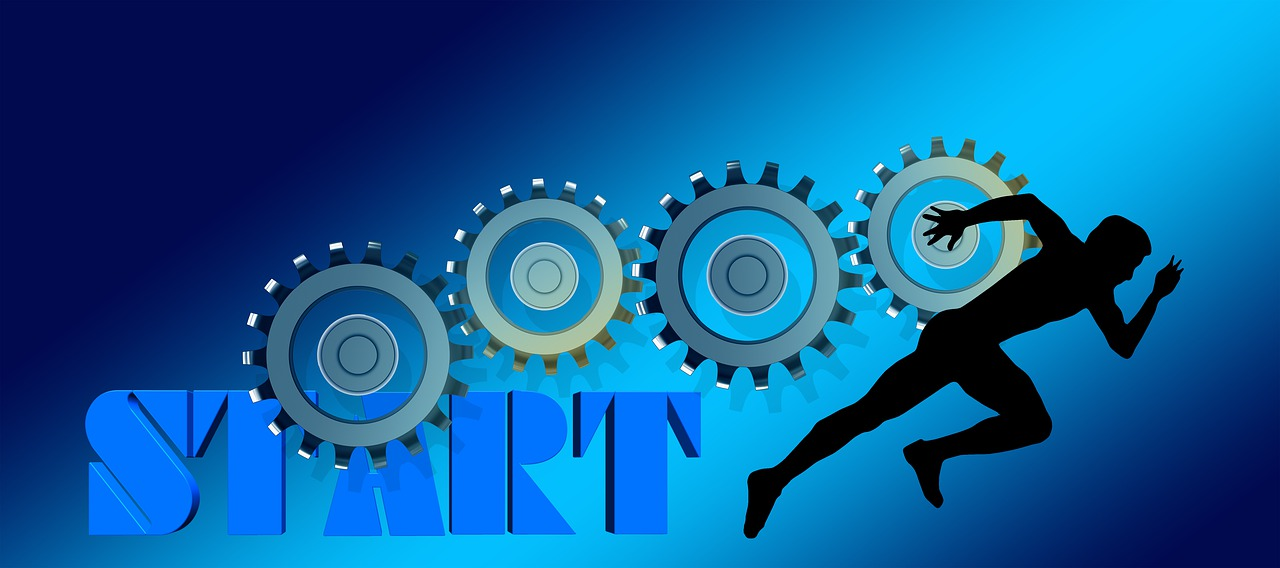
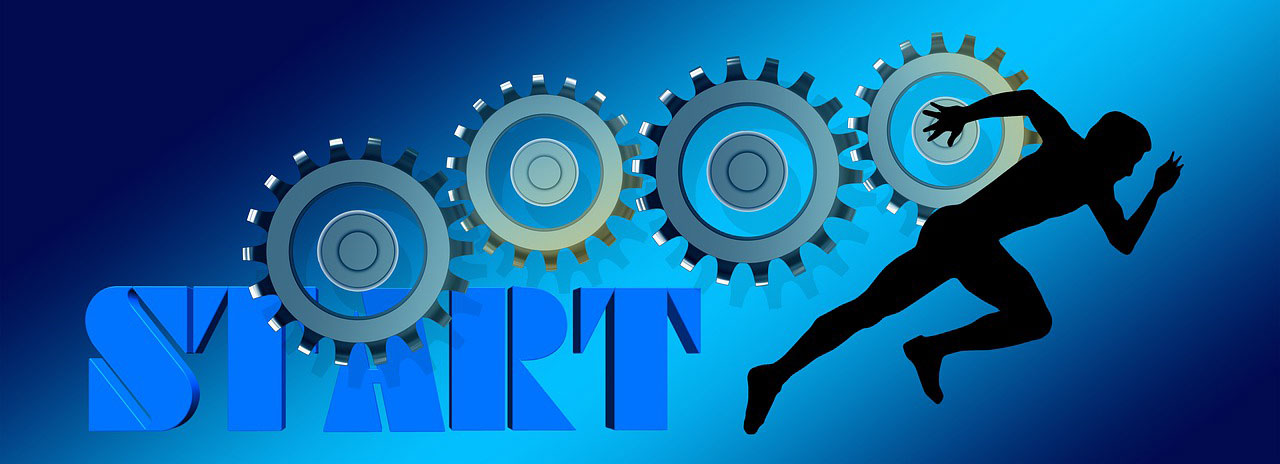
added dynamic data and api

diff --git a/templates/home.html b/templates/home.html
@@ -4,64 +4,42 @@
   <meta charset="UTF-8">
   <meta http-equiv="X-UA-Compatible" content="IE=edge">
   <meta name="viewport" content="width=device-width, initial-scale=1.0">
-  <style>
-    h1{
-      font-size:40px;
-      font-weight: normal;
-      font-family:Roboto;
-      color:rgb(50,50,50);
-      text-align: center;
-    }
-    h2{
-      font-size:32px;
-      font-weight: normal;
-      font-family:Roboto;
-      color:rgb(100,100,100);
-      text-align: center;
-    }
-
-    .bodytext {
-      font-family:Roboto;
-      color:rgb(80,80,80);
-      text-align: center;
-    }
-    #banner{
-      width : 100%;
-      height: 360px;
-      object-fit: cover;
-    }
-
-    #container{
-      max-width: 80%;
-      margin: 0 auto;
-    }
-  </style>
+  <link href="https://cdn.jsdelivr.net/npm/bootstrap@5.2.3/dist/css/bootstrap.min.css" rel="stylesheet" integrity="sha384-rbsA2VBKQhggwzxH7pPCaAqO46MgnOM80zW1RWuH61DGLwZJEdK2Kadq2F9CUG65" crossorigin="anonymous">
+    
   <title>Carrers</title>
 </head>
 <body>
-  <div id ="container">
-  <h1>Geonics Careers</h1>
-  <img id="banner" src="static/banner.jpg">
-  <h2>About Geonics</h2>
-  <p class="bodytext">Welcome to Geonics! We are a team of experienced professionals dedicated to delivering high-quality solutions in the field of technology. Our focus is on Web App development, Data Analysis, Machine Learning, and Mobile App development.</p>
+  <div class="container">
+  <h1 class="text-center mt-4 mb-4">{{ companyname }} Careers</h1>
+  <img class="img-fluid" src="static/banner.jpg">
+  <h2 class="text-center mt-4 mb-4">About Geonics</h2>
+  <p class="lead">Welcome to Geonics! We are a team of experienced professionals dedicated to delivering high-quality solutions in the field of technology. Our focus is on Web App development, Data Analysis, Machine Learning, and Mobile App development.</p>
 
-<p class="bodytext">At Geonics, we believe that technology can make a positive impact on society. That's why we work tirelessly to develop innovative solutions that solve real-world problems. We understand that every project is unique and requires a tailored approach. That's why we work closely with our clients to understand their needs and deliver customized solutions that meet their goals.</p>
+<p >At Geonics, we believe that technology can make a positive impact on society. That's why we work tirelessly to develop innovative solutions that solve real-world problems. We understand that every project is unique and requires a tailored approach. That's why we work closely with our clients to understand their needs and deliver customized solutions that meet their goals.</p>
 
-<p class="bodytext">Our team of experts has years of experience in developing web applications that are efficient, scalable, and user-friendly. We use the latest technologies and best practices to build high-performance web applications that deliver a seamless user experience. Our web development services include front-end development, back-end development, and database design.</p>
+<p >Our team of experts has years of experience in developing web applications that are efficient, scalable, and user-friendly. We use the latest technologies and best practices to build high-performance web applications that deliver a seamless user experience. Our web development services include front-end development, back-end development, and database design.</p>
 
-<p class="bodytext">Data Analysis is another area of expertise for us. We help businesses make informed decisions by analyzing their data and providing insights that can drive growth. Our team of data scientists and analysts have experience in a wide range of industries and can provide custom data analysis solutions that meet your specific needs.</p>
+<p >Data Analysis is another area of expertise for us. We help businesses make informed decisions by analyzing their data and providing insights that can drive growth. Our team of data scientists and analysts have experience in a wide range of industries and can provide custom data analysis solutions that meet your specific needs.</p>
 
-<p class="bodytext">Machine Learning is a rapidly growing field that has the potential to revolutionize the way businesses operate. Our team has expertise in building machine learning models that can provide insights and predictions based on large datasets. We have experience in developing models for various applications, including natural language processing, image recognition, and predictive analytics.</p>
+<p >Machine Learning is a rapidly growing field that has the potential to revolutionize the way businesses operate. Our team has expertise in building machine learning models that can provide insights and predictions based on large datasets. We have experience in developing models for various applications, including natural language processing, image recognition, and predictive analytics.</p>
 
-<p class="bodytext">In the mobile app development space, our team has developed numerous high-quality mobile applications for various platforms, including iOS and Android. We focus on delivering user-friendly and efficient applications that meet the needs of our clients and their customers.</p>
+<p >In the mobile app development space, our team has developed numerous high-quality mobile applications for various platforms, including iOS and Android. We focus on delivering user-friendly and efficient applications that meet the needs of our clients and their customers.</p>
 
-<p class="bodytext">At Geonics, we are committed to delivering exceptional service and solutions to our clients. Contact us to learn more about how we can help you achieve your business goals through innovative technology solutions.</p>
+<p >At Geonics, we are committed to delivering exceptional service and solutions to our clients. Contact us to learn more about how we can help you achieve your business goals through innovative technology solutions.</p>
 
-  <h2>Open Positions</h2>
-  <p class="bodytext">To Do</p>
-    <div style="text-align: center;">
-      <button>Contact Us</button>
+  <h2 class="text-center mt-4 mb-4">Open Positions</h2>
+  <div >
+    {% for job in jobs %}
+      {% include 'jobitem.html' %}
+     {% endfor %}
+      
+  </div>
+    <div class="text-center" >
+      <button class= "btn btn-primary btn-lg">Contact Us</button>
+      <p class="mt-4">@copyright 2023, Geonics</p>
     </div
  </div>
+
+  <script src="https://cdn.jsdelivr.net/npm/bootstrap@5.2.3/dist/js/bootstrap.bundle.min.js" integrity="sha384-kenU1KFdBIe4zVF0s0G1M5b4hcpxyD9F7jL+jjXkk+Q2h455rYXK/7HAuoJl+0I4" crossorigin="anonymous"></script>
 </body>
 </html>

diff --git a/templates/jobitem.html b/templates/jobitem.html
@@ -1,0 +1,21 @@
+<div class='border-bottom row' style= "margin-bottom:16px; padding-bottom: 8px;">
+  <div class='col-9'>
+        <div>
+        <h4 style="color:rgb(120,120,120); margin-bottom:4px; ">{{ job['title'] }}</h4>
+        </div>
+         <div>
+          <b> Location</b> {{ job['location'] }}
+        </div>
+        {% if 'salary' in job %}
+          <div>
+           <b> Salary :</b> {{ job['salary'] }}
+          </div>
+        {% endif %}
+  </div>
+  <div class= 'col-2 clearfix'>
+      <button type="button" class="btn btn-outline-primary float-right align-middle">Apply</button>
+  </div>
+      </div>
+
+     
+   

diff --git a/app.py b/app.py
@@ -1,11 +1,41 @@
-from flask import Flask, render_template
+from flask import Flask, render_template, jsonify
 
 app = Flask(__name__)
+
+JOBS = [
+  {
+    "id": 1,
+    "title": "Data Analyst",
+    "location": "Dhaka, Bangladesh",
+    "salary": 'BDT. 10,00,00'
+  },
+  {
+    "id": 2,
+    "title": "Flutter Developer",
+    "location": "Dhaka, Bangladesh",
+  },
+  {
+    "id": 3,
+    "title": "Data Engnieer",
+    "location": "Dhaka, Bangladesh",
+    "salary": 'BDT. 9,00,00'
+  },
+  {
+    "id": 4,
+    "title": "Frontend Engnieer",
+    "location": "Remote",
+    "salary": 'BDT. 7,00,00'
+  },
+]
 
 
 @app.route("/")
 def hello_world():
-  return render_template("home.html")
+  return render_template("home.html", jobs=JOBS, companyname="Geonics")
+
+@app.route("/api/jobs")
+def list_jobs():
+  return jsonify(JOBS)
 
 
 if __name__ == "__main__":
